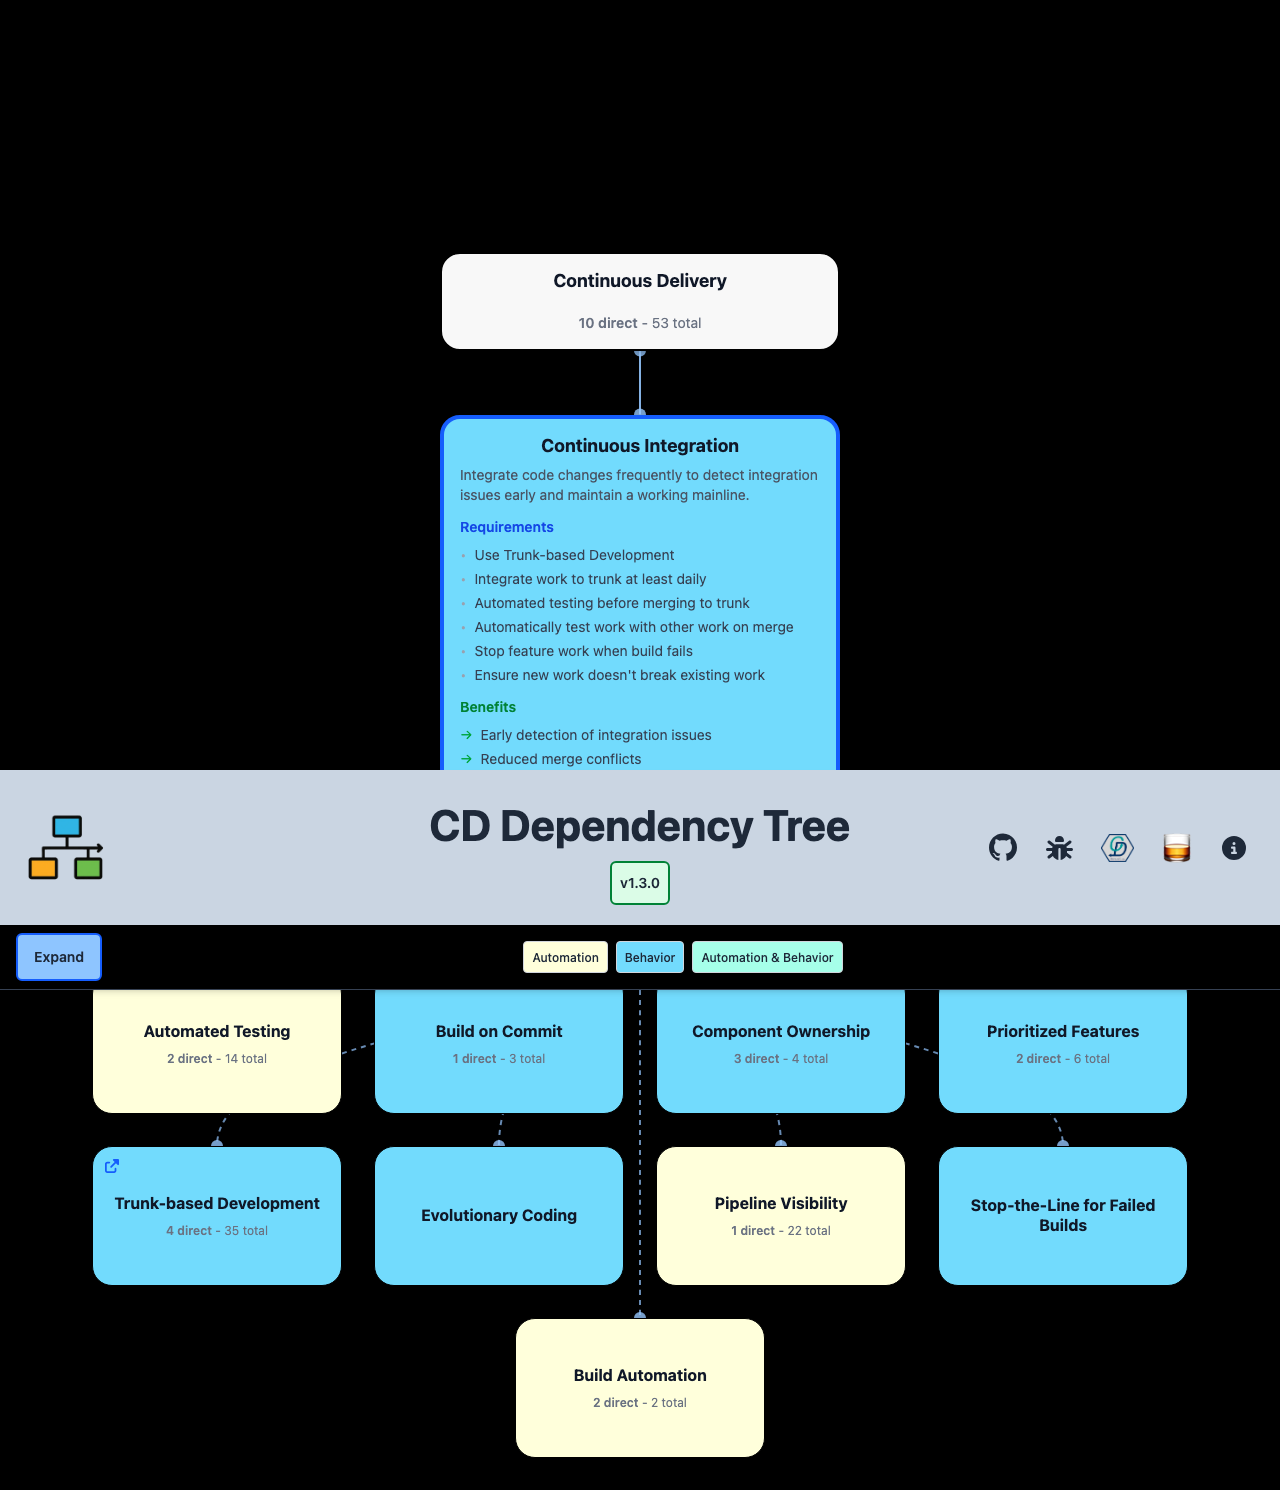
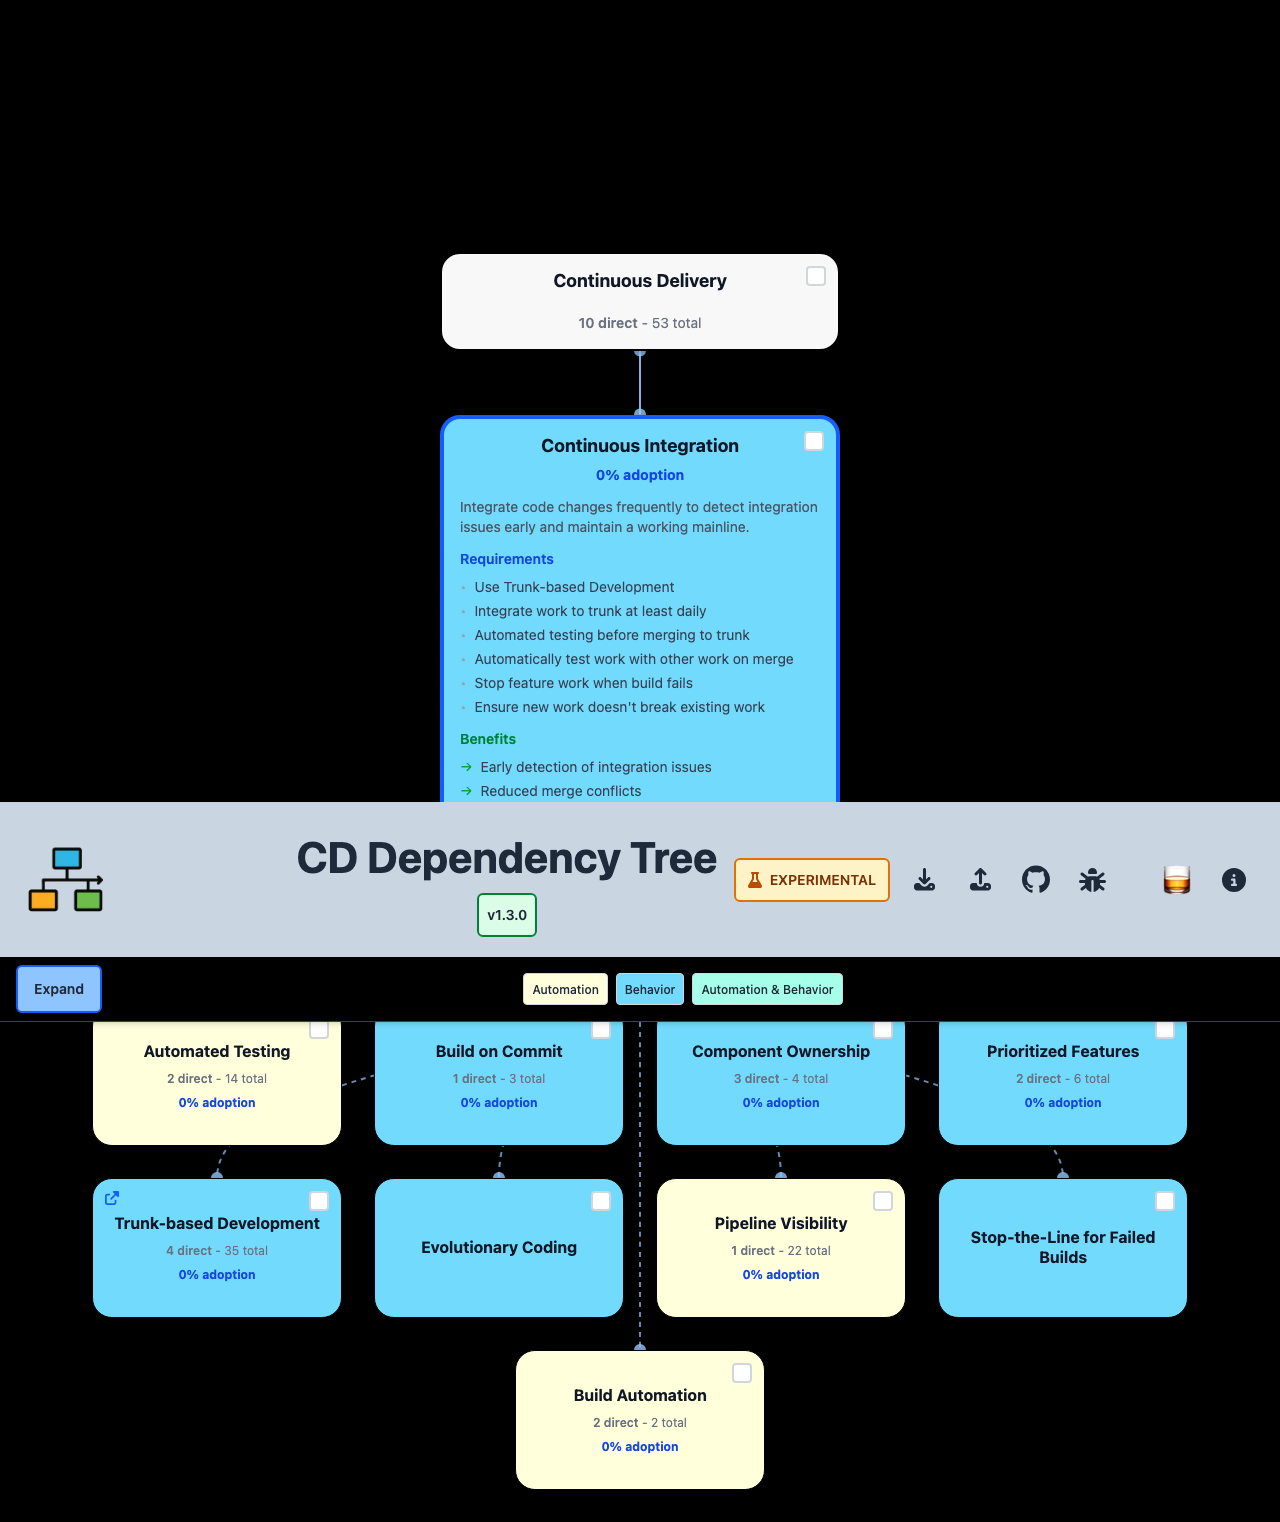
fix: improve adoption calculation

Changed region(s): [[0.0, 0.1544, 1.0, 0.957], [0.75, 0.5557, 0.875, 0.5866], [0.9062, 0.5557, 0.9688, 0.5866]]

diff --git a/src/lib/components/GraphNode.svelte b/src/lib/components/GraphNode.svelte
@@ -106,6 +106,16 @@
 	</div>
 
 	{#if isSelected}
+		<!-- Adoption percentage (when feature enabled and has dependencies) -->
+		{#if practiceAdoptionEnabled && totalDependencyCount > 0}
+			{@const totalWithParent = totalDependencyCount + 1}
+			{@const adoptedWithParent = isAdopted ? adoptedDependencyCount + 1 : adoptedDependencyCount}
+			{@const adoptionPercentage = Math.floor((adoptedWithParent / totalWithParent) * 100)}
+			<div class="text-center {compact ? 'mb-1 text-xs' : 'mb-3 text-sm'} font-bold text-blue-700">
+				{adoptionPercentage}% adoption
+			</div>
+		{/if}
+
 		<!-- Description -->
 		<p class="{compact ? 'mb-1 text-xs' : 'mb-3 text-sm'} text-gray-600">
 			{practice.description}
@@ -182,20 +192,11 @@
 				</div>
 			{/if}
 
-			<!-- Adoption counter (when feature enabled and has dependencies) -->
+			<!-- Adoption percentage (when feature enabled and has dependencies) -->
 			{#if practiceAdoptionEnabled && totalDependencyCount > 0}
-				<div class="text-center {compact ? 'text-xs' : 'text-sm'} text-green-700">
-					<span class="font-semibold">{adoptedDependencyCount}/{totalDependencyCount}</span> dependencies
-					adopted
-				</div>
-			{/if}
-
-			<!-- CD adoption percentage (when feature enabled and practice is CD itself) -->
-			{#if practiceAdoptionEnabled && practice.id === 'continuous-delivery'}
-				{@const adoptionPercentage =
-					totalDependencyCount > 0
-						? Math.round((adoptedDependencyCount / totalDependencyCount) * 100)
-						: 0}
+				{@const totalWithParent = totalDependencyCount + 1}
+				{@const adoptedWithParent = isAdopted ? adoptedDependencyCount + 1 : adoptedDependencyCount}
+				{@const adoptionPercentage = Math.floor((adoptedWithParent / totalWithParent) * 100)}
 				<div class="text-center {compact ? 'text-xs' : 'text-sm'} font-bold text-blue-700">
 					{adoptionPercentage}% adoption
 				</div>

diff --git a/src/lib/components/CategoryLegend.svelte b/src/lib/components/CategoryLegend.svelte
@@ -3,6 +3,8 @@
 	import { expandButtonRenderer } from '$lib/stores/expandButton.js'
 	import { headerHeight } from '$lib/stores/headerHeight.js'
 	import { legendHeight } from '$lib/stores/legendHeight.js'
+	import { isPracticeAdoptionEnabled } from '$lib/stores/featureFlags.js'
+	import { adoptionStore } from '$lib/stores/adoptionStore.js'
 
 	/**
 	 * CategoryLegend Component
@@ -74,6 +76,20 @@
 		// Toggle tooltip on touch
 		showTooltip = { ...showTooltip, [index]: !showTooltip[index] }
 	}
+
+	/**
+	 * Handle reset adoption button click with confirmation
+	 */
+	function handleResetAdoption() {
+		// Use browser's native confirm dialog
+		const confirmed = window.confirm(
+			'Are you sure you want to reset all adoption data? This will clear all checkboxes and cannot be undone.'
+		)
+
+		if (confirmed) {
+			adoptionStore.clearAll()
+		}
+	}
 </script>
 
 <div
@@ -132,8 +148,20 @@
 				{/each}
 			</div>
 
-			<!-- Right: Empty spacer for balance -->
-			<div></div>
+			<!-- Right: Reset Adoption Button (when feature enabled) -->
+			<div class="flex justify-end">
+				{#if $isPracticeAdoptionEnabled}
+					<Button
+						onclick={handleResetAdoption}
+						variant="danger"
+						size="md"
+						data-testid="reset-adoption-button"
+						aria-label="Reset all adoption data"
+					>
+						Reset
+					</Button>
+				{/if}
+			</div>
 		</div>
 	</div>
 </div>
